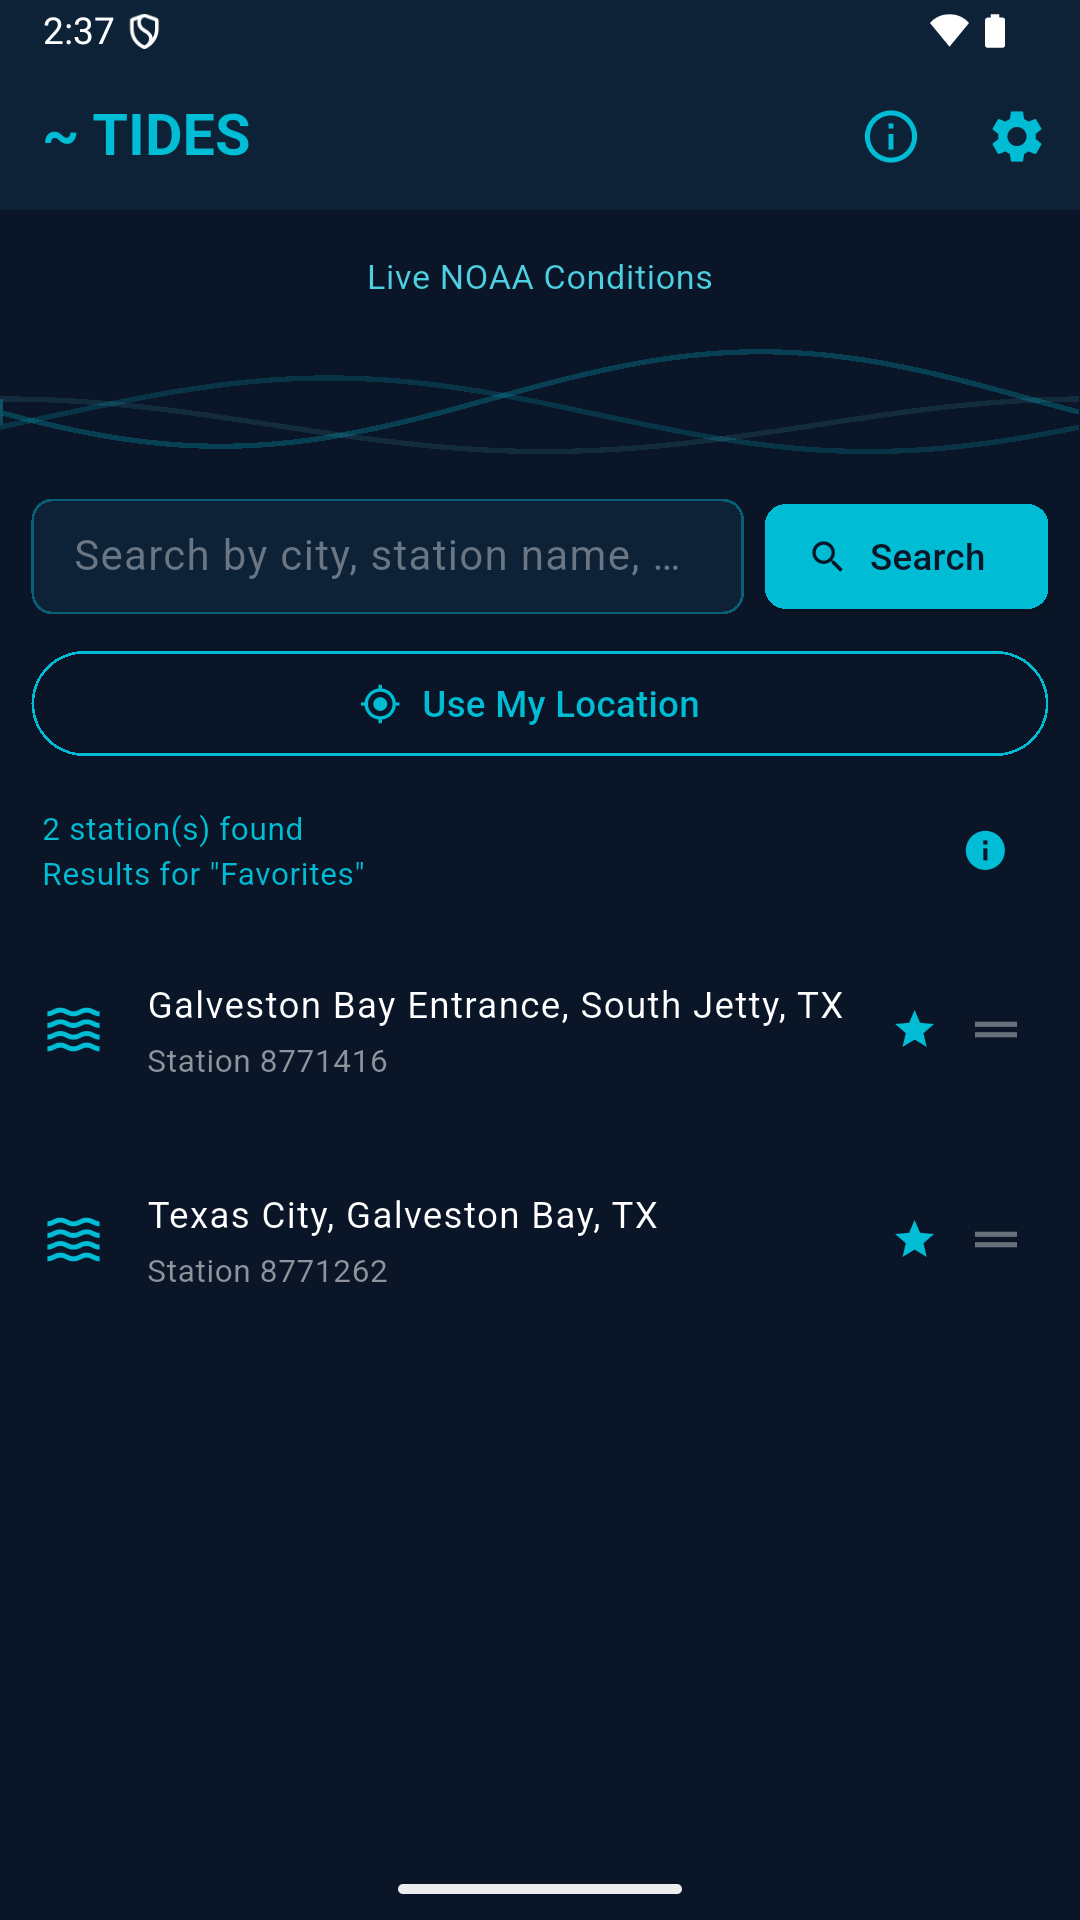
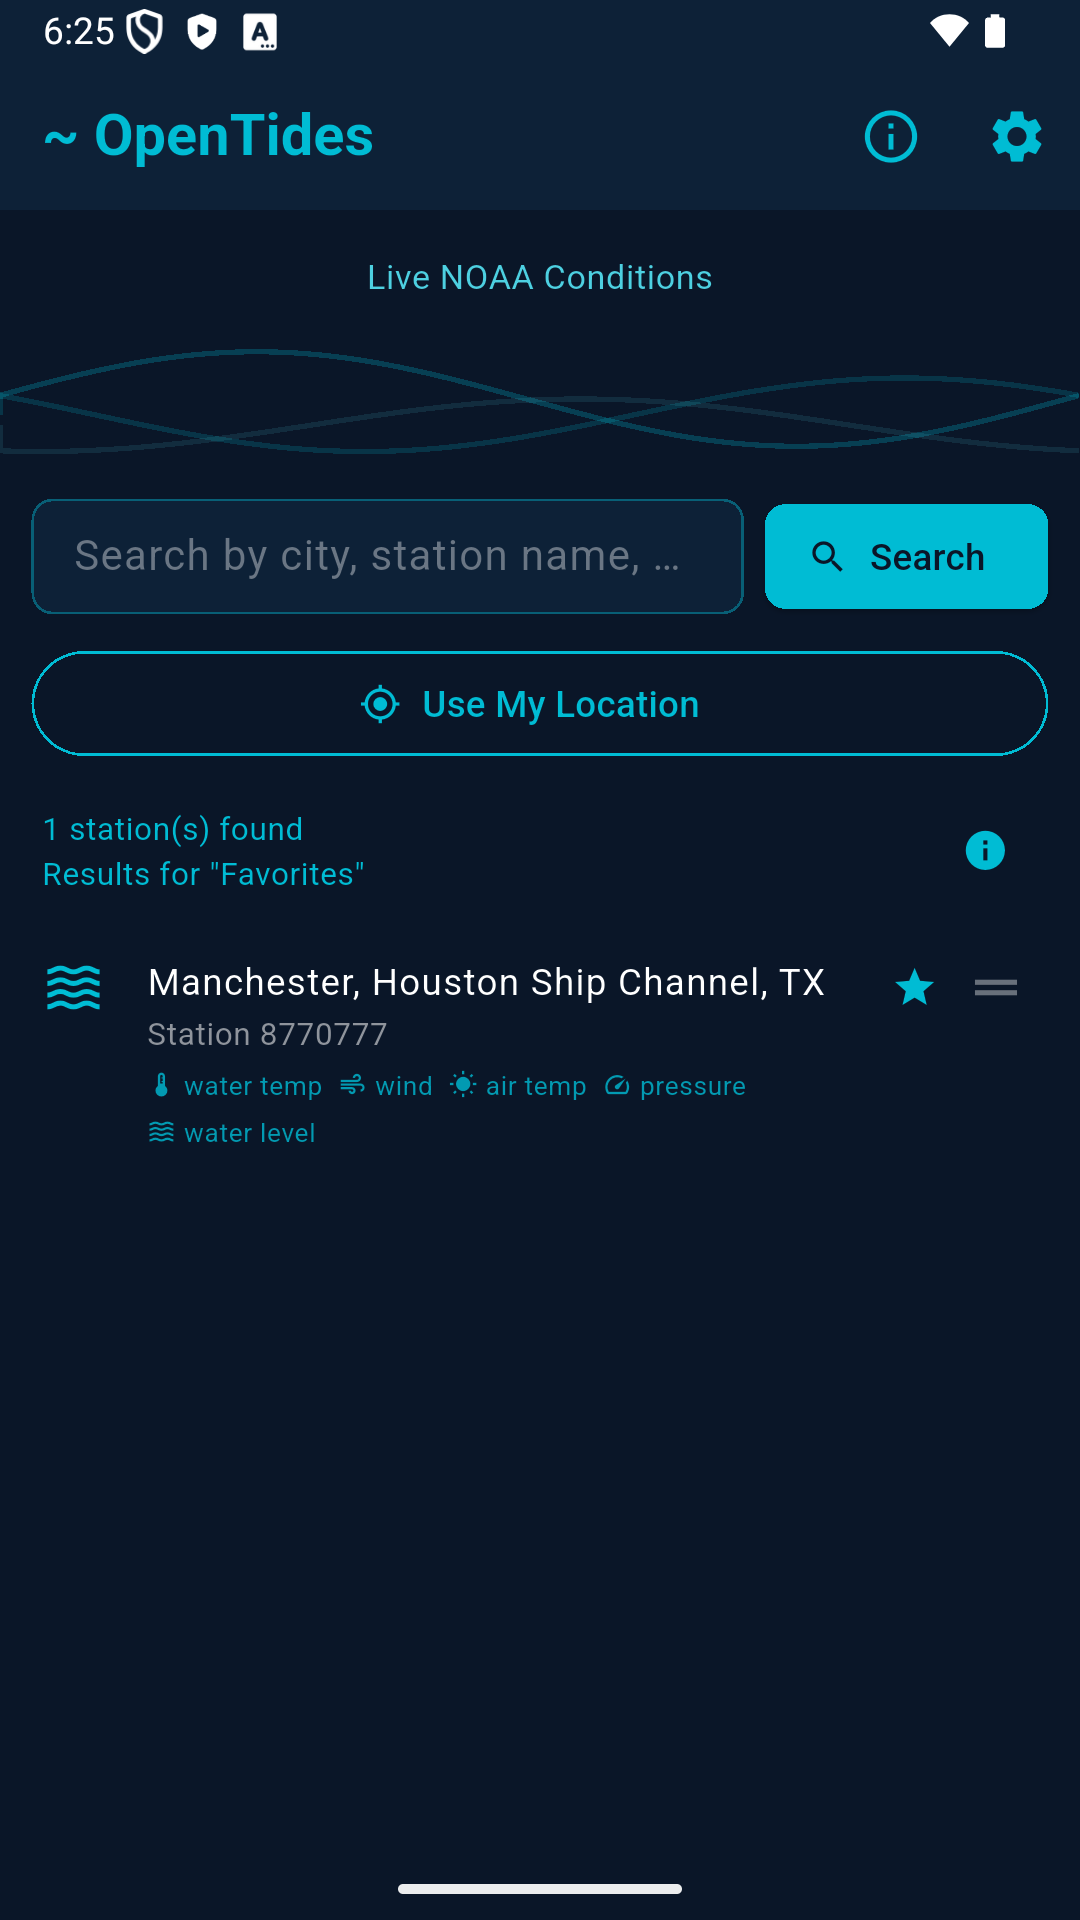
docs: README + screenshots for v3.4.0 (build 46)
- New 'New in v3.4' screenshot row: wind-tide, bite forecast + best windows,
  in-app User Guide, and alerts (incl. cold-front).
- Changelog entry for v3.4.0 (build 46): wind-tide indicator, smarter fishing
  score with best windows, cold-front pressure alert, and the User Guide.
- Refreshed home screenshot; added detail_conditions, detail_fishing,
  user_guide, settings_alerts.

diff --git a/README.md b/README.md
@@ -4,13 +4,21 @@ A free, open-source Flutter app for Android that shows real-time NOAA tide data,
 
 ## Download
 
-**Latest release: [v3.3.0 — Live NOAA radar + 18-hour rain forecast](https://github.com/SilasMarner/tides-mobile/releases/tag/v3.3.0)** ([always-latest link](https://github.com/SilasMarner/tides-mobile/releases/latest)) — download `tides-3.3.0.apk` and tap to install.
+**Latest release: [v3.4.0 — Wind-tide, smarter bite forecast & cold-front alerts](https://github.com/SilasMarner/tides-mobile/releases/tag/v3.4.0)** ([always-latest link](https://github.com/SilasMarner/tides-mobile/releases/latest)) — download `tides-3.4.0.apk` and tap to install.
 
 To sideload: enable *Install unknown apps* for your file manager in Android Settings → Apps, download the APK, and tap to install.
 
 ---
 
 ## Screenshots
+
+### New in v3.4 — for Texas surf & bay anglers
+
+| Wind-tide (water vs. predicted) | Bite forecast + best windows | In-app User Guide | Alerts (incl. cold-front) |
+|------|------|------|------|
+| ![Wind tide](screenshots/detail_conditions.png) | ![Fishing](screenshots/detail_fishing.png) | ![User Guide](screenshots/user_guide.png) | ![Alerts](screenshots/settings_alerts.png) |
+
+*The Conditions card now shows the **wind tide** — how far the live water level sits above/below the predicted tide (north winds drain the bays, south winds stack water in). The **Fishing** card folds tide movement, wind, and barometric trend into the star rating and lists today's best **bite windows**. A new **User Guide** (About → User Guide) explains the data sources and exactly how the score and alerts are calculated.*
 
 | Home | Conditions & Waves (today) | Tides, Solunar & Moon |
 |------|-------------------|----------------------|
@@ -57,6 +65,12 @@ that point; the data follows the map as you pan and zoom.
 ---
 
 ## Changelog
+
+### v3.4.0 (build 46) — **Texas angler features + User Guide**
+- **Wind-tide indicator** — the Conditions card now shows the live water level vs. the predicted tide ("Water 0.7 ft below predicted"). On the Texas coast this reveals wind setup: north winds drain the bays and back-lakes (below prediction), south winds stack water in (above). Today only, on stations with a live water-level sensor. Computed from data already fetched — no new API.
+- **Smarter fishing score + best windows** — the 1–5 star rating now folds in **moving water** (the tide's rate of change vs. the day's strongest), a **falling-barometer** bump (fish feed ahead of fronts), and the existing solunar + wind factors. The Fishing card adds a movement line ("Incoming — strongest 2–4 PM") and today's top 2–3 **bite windows**.
+- **Cold-front alert** — a new *Pressure Drops* notification fires when the barometer is falling (a front approaching, often a strong pre-front bite). Once per day per station, reusing the existing alert framework.
+- **In-app User Guide** — a new *User Guide — how it works* button on the About page opens a plain-language guide: where the data comes from (NOAA CO-OPS, NWS, Open-Meteo Marine, on-device solunar/sun/moon), how to read the tide chart and wind tide, exactly how the fishing score and best windows are calculated, and how each alert type fires.
 
 ### v3.3.0 (build 44)
 - **Station pin on all wind map layers** — a cyan location pin marks your station on every wind map layer (Wind, Waves, Swell, Rain, Temperature, Pressure, Clouds). Visible over both the light basemap and the dark satellite view thanks to a black + white shadow.
